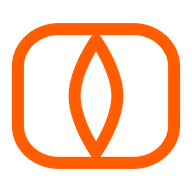
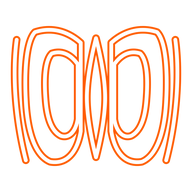
Replace the capsule glyph with an outlined open book.
The previous favicon was a rounded square with a leaf/teardrop. This
commit uses an open book (covers, pages, gutter) as the PNG source and
regenerates ico/32/180/192/512/maskable/iOS from that raster.

diff --git a/test/models/favicon_test.rb b/test/models/favicon_test.rb
@@ -3,15 +3,17 @@
 require "test_helper"
 
 class FaviconTest < ActiveSupport::TestCase
-  test "source outlined book is committed for regeneration" do
-    svg = Rails.root.join("app/assets/images/open-book-icon.svg").read
+  test "source is an outlined open book PNG, not a geometric capsule" do
     png = png_info(Rails.root.join("app/assets/images/open-book-icon.png"))
+    svg = Rails.root.join("app/assets/images/open-book-icon.svg").read
 
-    assert_includes svg, "#FF5C00"
-    assert_includes svg, "<rect"
-    refute_includes svg, 'fill="red"'
     assert_equal [ 1024, 1024 ], [ png[:width], png[:height] ]
     assert_equal 6, png[:color_type], "source PNG must keep a transparent background"
+    assert_includes svg, "#FF5C00"
+    assert_operator svg.scan("<path").size, :>=, 6
+    refute_includes svg, 'fill="red"'
+    refute_includes svg, 'rect x="8"'
+    refute_includes svg, 'width="84" height="72"'
   end
 
   test "public icons are the sizes the layout and PWA manifest expect" do
@@ -35,6 +37,8 @@ class FaviconTest < ActiveSupport::TestCase
     svg = Rails.root.join("public/icon.svg").read
     assert_includes svg, "#FF5C00"
     refute_includes svg, 'fill="red"'
+    refute_includes svg, 'rect x="8"'
+    refute_includes svg, "<circle"
   end
 
   test "maskable PWA icon is an opaque 512 square generated onto dark paper" do
@@ -43,6 +47,13 @@ class FaviconTest < ActiveSupport::TestCase
     assert_equal 2, info[:color_type], "maskable icon must be opaque RGB, not a white-backed web glyph"
     refute info[:has_trns]
     assert_includes Rails.root.join("script/generate-icons").read, "DARK = (26, 24, 22)"
+  end
+
+  test "generator reads the PNG source rather than inventing an SVG glyph" do
+    script = Rails.root.join("script/generate-icons").read
+    assert_includes script, "open-book-icon.png"
+    assert_includes script, "def loadSource"
+    refute_includes script, "renderSvg"
   end
 
   test "PWA manifest points at the outlined book PNGs" do
